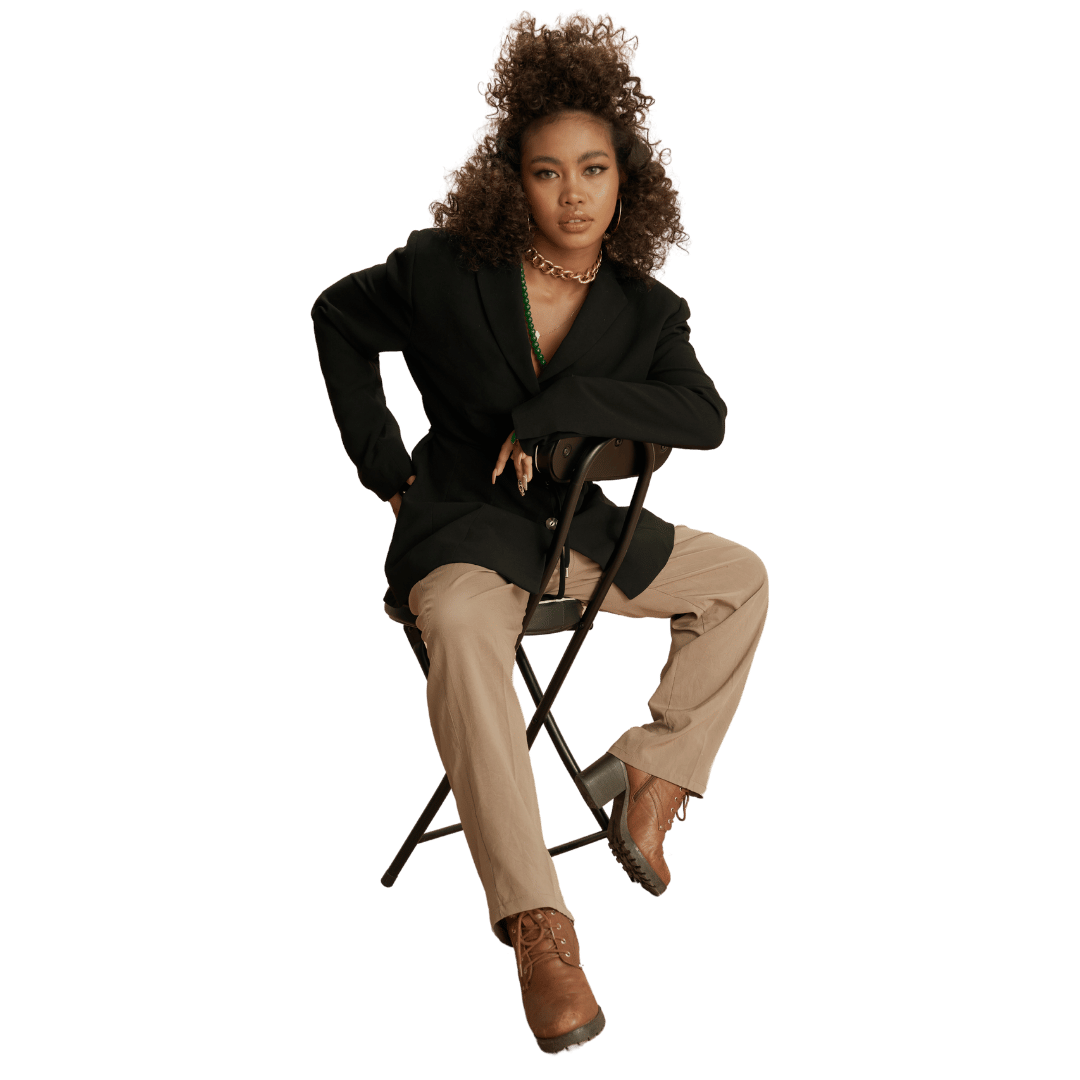
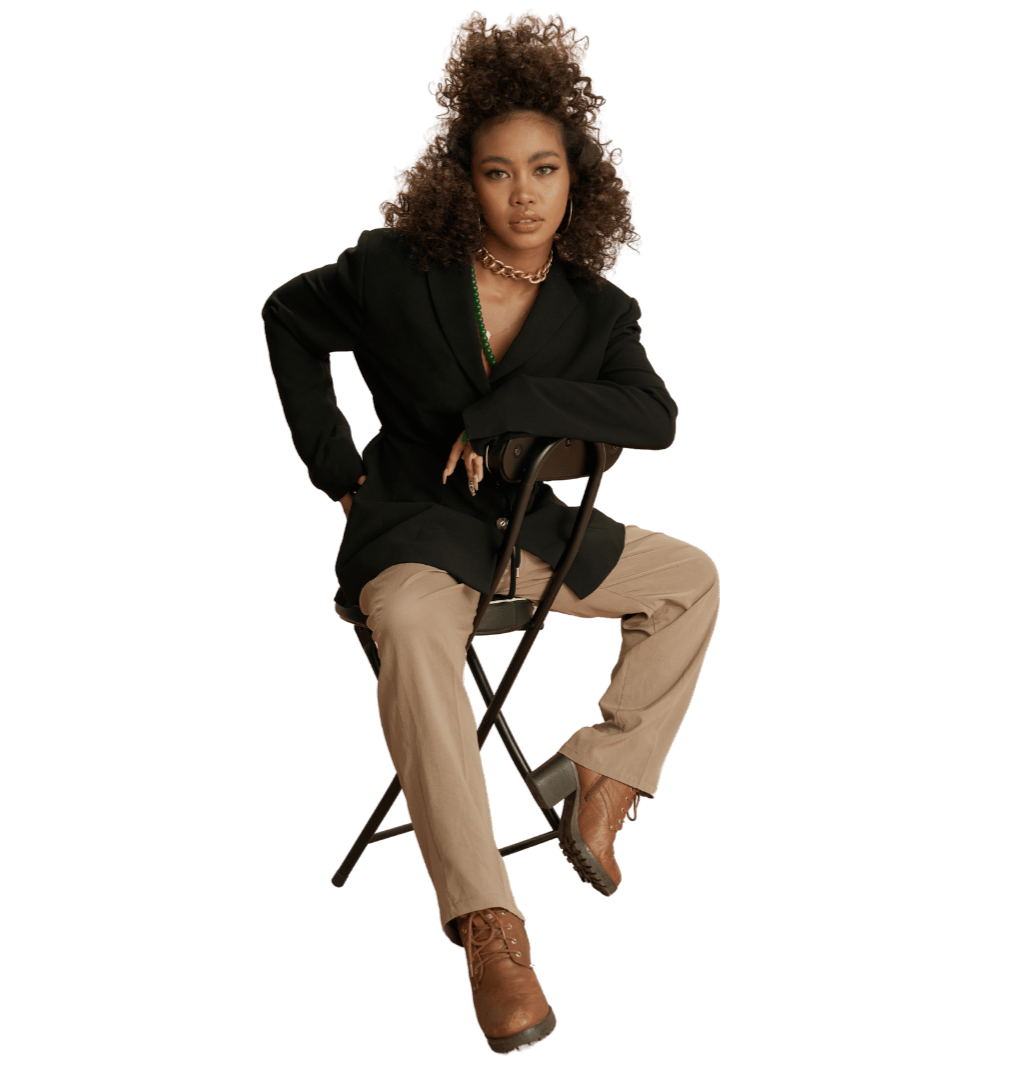
Added scaling and updated images

Changed region(s): [[0.2431, 0.0, 0.7294, 0.9869]]

diff --git a/src/components/BestSeller.jsx b/src/components/BestSeller.jsx
@@ -27,13 +27,29 @@ const BestSeller = () => {
 
       <div className="grid grid-cols-2 w-full max-w-screen-xl mx-auto">
         {bestSeller.map((product) => (
-          <div key={product.id} className="p-0 m-0">
+         <div
+            key={product.id}
+            className="aspect-square overflow-hidden relative group"
+          >
+            {/* Product Image */}
             <img
               src={product.image}
               alt={product.name}
-              className="w-auto h-full object-cover"
+              loading="lazy"
+              className="w-full h-full object-cover transition-transform duration-500 ease-in-out group-hover:scale-110"
             />
+
+            {/* Overlay Action Buttons */}
+            <div className="absolute inset-0 bg-black/40 opacity-0 group-hover:opacity-100 flex flex-col justify-center items-center gap-3 transition-opacity duration-500 ease-in-out">
+              <button className="px-4 py-2 text-sm font-medium rounded-sm bg-white text-gray-800 hover:bg-gray-900 hover:text-neutral-50 transition duration-500 ease-in-out">
+                Add to Cart
+              </button>
+              <button className="px-4 py-2 text-sm font-medium border-black hover:border-neutral-700 bg-neutral-900 text-white rounded hover:bg-neutral-50 hover:text-neutral-800 transition duration-500 ease-in-out">
+                Buy Now
+              </button>
+            </div>
           </div>
+
         ))}
       </div>
     </div>

diff --git a/src/components/Hero.jsx b/src/components/Hero.jsx
@@ -3,8 +3,10 @@ import React, { useEffect, useState } from 'react';
 import img1 from '../assets/images/new1.png';
 import img2 from '../assets/images/new2.png';
 import img3 from '../assets/images/new3.png';
+import img4 from '../assets/images/new4.png';
+import img5 from '../assets/images/new5.png';
 
-const images = [img1, img2, img3];
+const images = [img1, img2, img3, img4, img5];
 
 const Hero = () => {
   const [currentImageIndex, setCurrentImageIndex] = useState(0);
@@ -46,13 +48,13 @@ const Hero = () => {
         </div>
 
         {/* Right Side */}
-        <div className="w-full sm:w-1/2 bg-neutral-200 relative overflow-hidden">
+        <div className="w-full sm:w-1/2 bg-neutral-200 relative overflow-hidden aspect-square">
           <img
             className="w-full h-full object-cover transition-opacity duration-1000 ease-in-out"
             src={images[currentImageIndex]}
             alt="Hero"
           />
-        </div>
+        </div> 
       </div>
     </div>
   );
